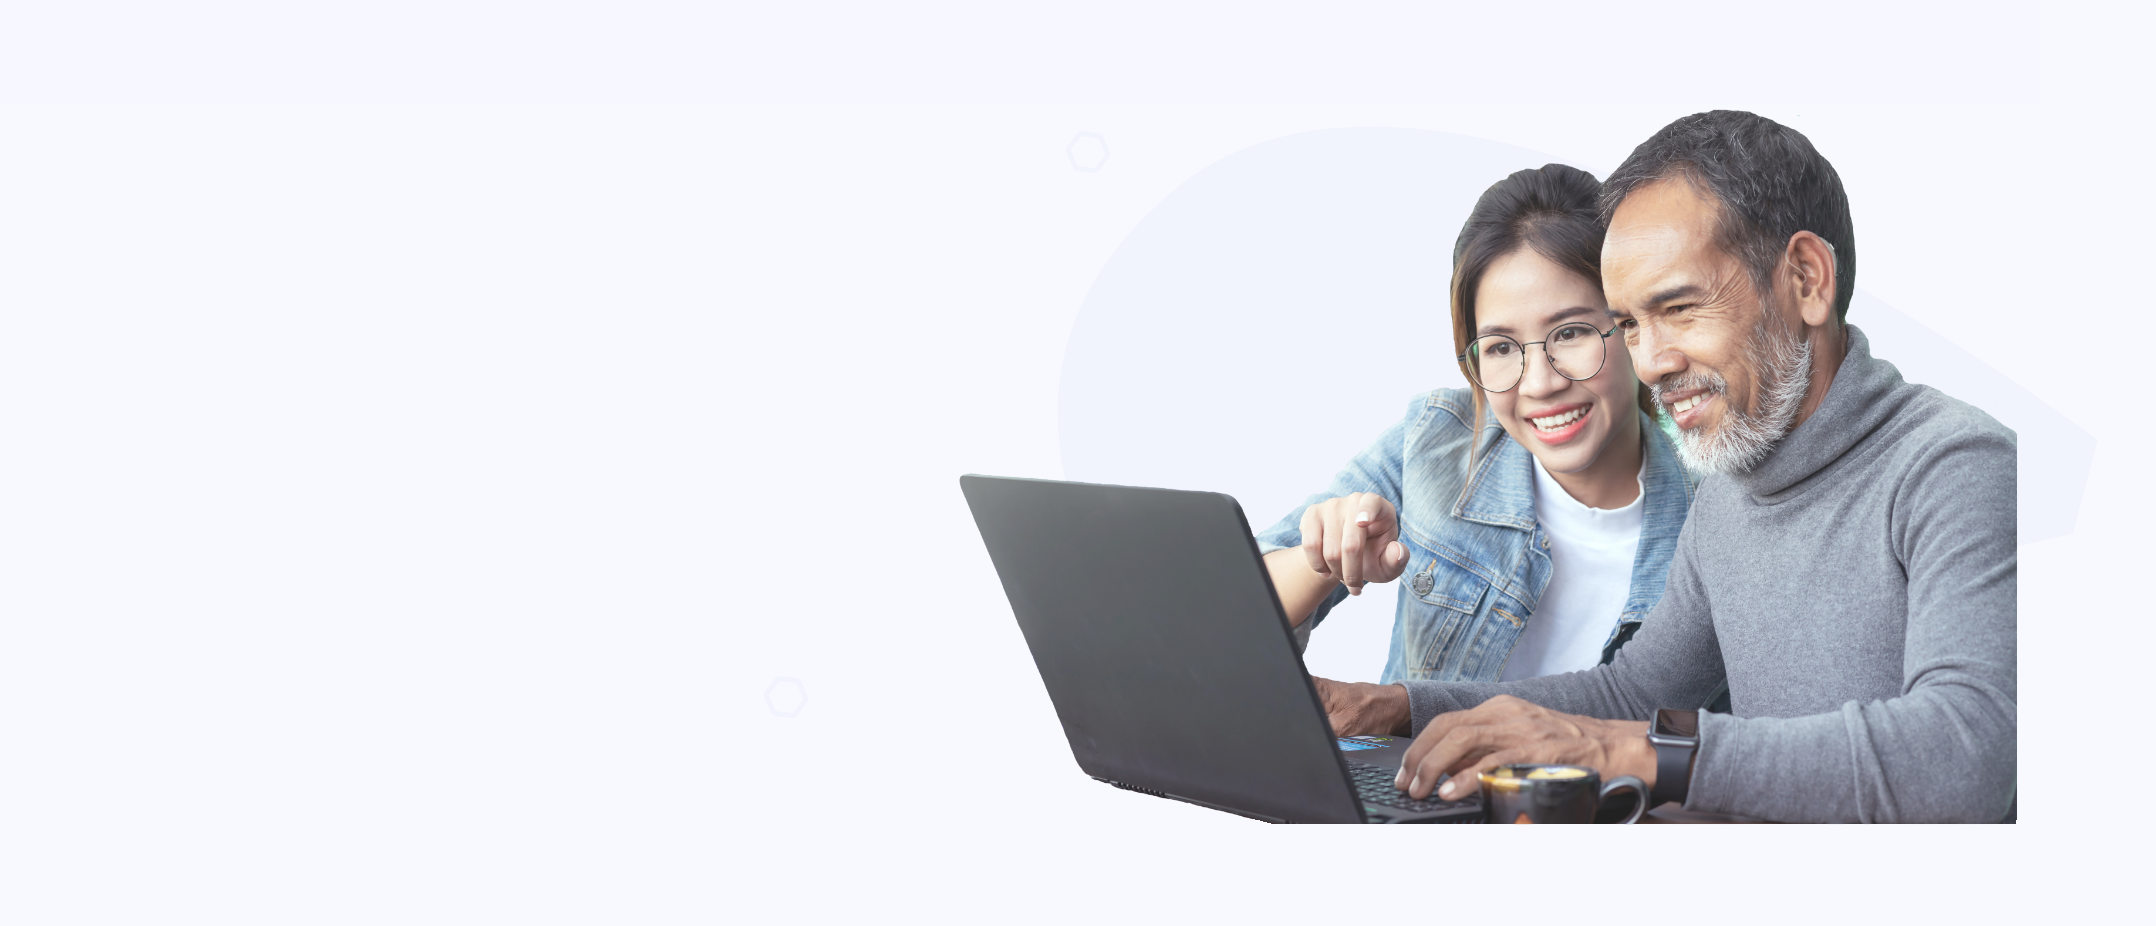
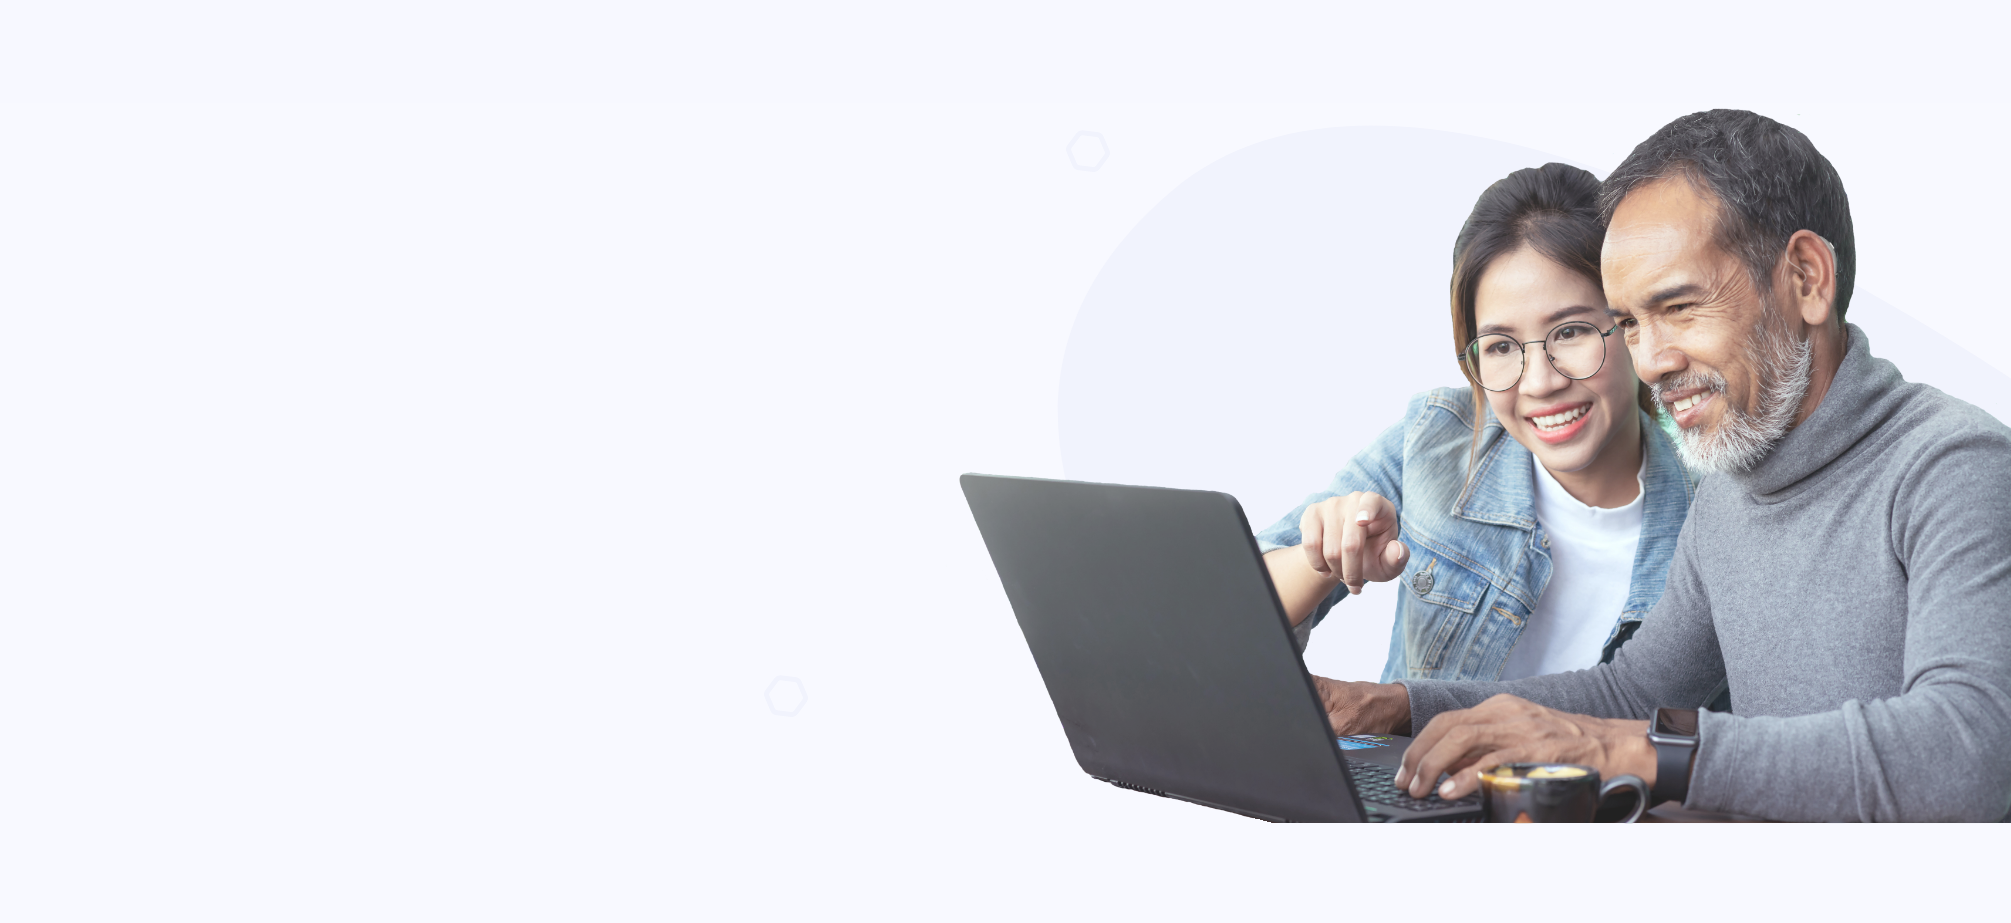
Fixed hero Image issue on mobile

Changed region(s): [[0.4316, 0.1213, 1.0, 0.9101]]

diff --git a/tutor-training.html b/tutor-training.html
@@ -162,7 +162,7 @@
     </nav>
 
     <!-- Hero Section-->
-    <section class="hero-section relative" style="background-image: url('images/tutortraining-hero.png')">
+    <section class="hero-section tutor-training relative" style="background-image: url('images/tutortraining-hero.png');background-position: right 15% bottom;">
       
       <div class="flex w-full container mx-auto px-4 items-center">
 

diff --git a/css/style.css b/css/style.css
@@ -622,8 +622,11 @@ body.popup-active{
     }
 }
 
-@media only screen and (max-width: 992px) and (min-width: 768px){
+@media only screen and (max-width: 992px){
 
+    .hero-section.tutor-training{
+        background-position: right 15% bottom -50px !important;
+    }
 }
 
 @media only screen and (max-width: 768px){
